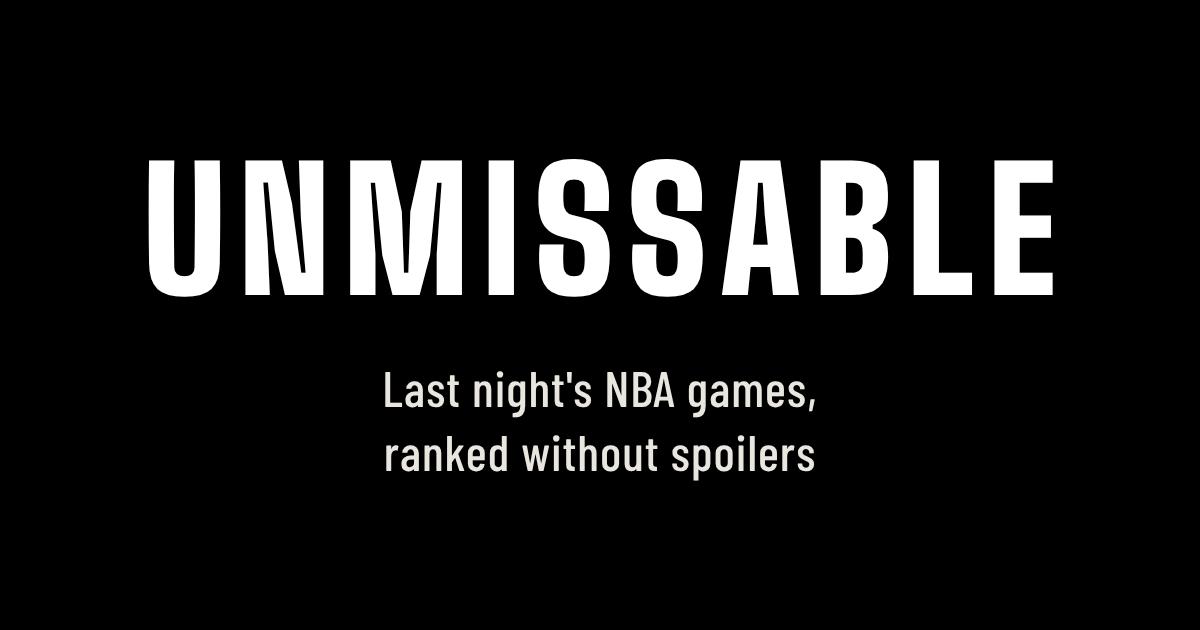
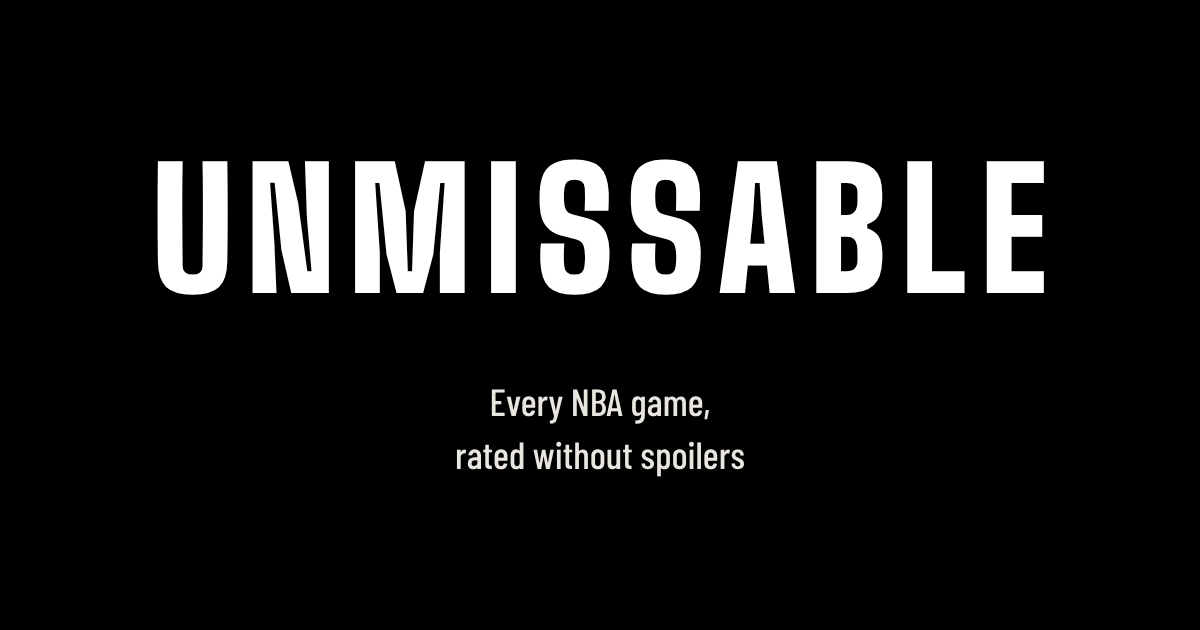
Season chart with the current algorithm (41% / 59%, 18 at 100), every NBA game rated in the meta and share image
Claude-Session: https://claude.ai/code/session_01NAPeRJwqEet71L2Ygi3W5Y

diff --git a/index.html b/index.html
@@ -4,18 +4,18 @@
   <meta charset="utf-8" />
   <meta name="viewport" content="width=device-width, initial-scale=1" />
   <!-- Zero spoilers: neither the title nor the description mention any result -->
-  <title>Unmissable — NBA games ranked without spoilers</title>
-  <meta name="description" content="Last night's NBA games, ranked without spoilers." />
+  <title>Unmissable — NBA games rated without spoilers</title>
+  <meta name="description" content="Every NBA game, rated without spoilers." />
   <!-- Link previews (WhatsApp, Discord, Reddit, X…): the brand and the promise, never a real night -->
   <meta property="og:type" content="website" />
   <meta property="og:site_name" content="Unmissable" />
-  <meta property="og:title" content="Unmissable — Last night's NBA games, ranked without spoilers" />
+  <meta property="og:title" content="Unmissable — Every NBA game, rated without spoilers" />
   <meta property="og:description" content="Know what to watch. Never know who won." />
   <meta property="og:url" content="https://unmissable.watch/" />
   <meta property="og:image" content="https://unmissable.watch/img/og.png" />
   <meta property="og:image:width" content="1200" />
   <meta property="og:image:height" content="630" />
-  <meta property="og:image:alt" content="Unmissable: last night's NBA games, ranked without spoilers" />
+  <meta property="og:image:alt" content="Unmissable: every NBA game, rated without spoilers" />
   <meta name="twitter:card" content="summary_large_image" />
   <meta name="theme-color" content="#F3F1EC" />
   <link rel="icon" href="/favicon.svg" type="image/svg+xml" />

diff --git a/src/components/About.tsx b/src/components/About.tsx
@@ -87,7 +87,7 @@ export function About() {
           width="800"
           height="460"
           loading="lazy"
-          alt="Every game of the 2025–26 season as a dot, stacked on its rating: 46% of the 1,230 games are under 50%, 54% at 50% or more, and 15 reach 100%."
+          alt="Every game of the 2025–26 season as a dot, stacked on its rating: 41% of the 1,230 games are under 50%, 59% at 50% or more, and 18 reach 100%."
         />
       </figure>
     </article>
